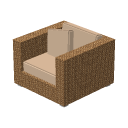
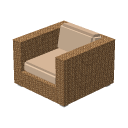
Remove the sofa single throw cushion and soften its seat and back cushions

diff --git a/tests/tools/sofa.test.ts b/tests/tools/sofa.test.ts
@@ -37,7 +37,8 @@ for build in (m.build_frame, m.build_cushions, m.build_feet):
     assert a[0][1:] == b[0][1:] and a[1][1:] == b[1][1:]
 assert len(m.build_feet(1)) == len(m.build_feet(2)) == 4
 assert len(m.build_cushions(2)) == len(m.build_cushions(1))+6
-assert len(m.tilt.compound_cubes(m.cubes())) == m.ASSEMBLIES['throw_cushion']['cubes']
+assert not m.tilt.compound_cubes(m.cubes())
+assert len(m.tilt.compound_cubes(m.cubes(1, 1))) == m.ASSEMBLIES['throw_cushion']['cubes']
 assert m.SEAT_POSITION[1] == m.SEAT_TOP/16-0.24
 `);
   });

diff --git a/tools/gen_sofa.py b/tools/gen_sofa.py
@@ -63,17 +63,16 @@ def build_frame(width_cells):
     ]
 
 
-def pillow(origin, size):
+def pillow(origin, size, edge=0.25):
     """Inset broad faces soften the silhouette and leave a fine sewn edge."""
     x, y, z = origin
     w, h, d = size
-    edge = 0.25
     return [box((x+edge, y, z+edge), (w-2*edge, h, d-2*edge), "piping"),
             box((x, y+edge, z+edge), (w, h-2*edge, d-2*edge), "beige"),
             box((x+edge, y+edge, z), (w-2*edge, h-2*edge, d), "beige")]
 
 
-def build_cushions(width_cells):
+def build_cushions(width_cells, throw_cushions=0):
     h = half_width(width_cells)
     parts = []
     # Separate seat and back pads preserve the reference's proportions at both widths.
@@ -81,19 +80,24 @@ def build_cushions(width_cells):
     for i in range(width_cells):
         x = -h + 2.45 + i * inner / width_cells
         w = inner / width_cells - 0.1
-        parts += pillow((x, 4, -7.2), (w, SEAT_TOP-4, 12.5))
-        back = pillow((x, 6.2, 3.4), (w, 5.8, 2.1))
-        parts += tilt.tilt_assembly(back, (0, 6.2, 3.4), "x", -12)
-    # A square pad rests against the left arm, tilted sideways and back together.
-    throw = pillow((-h+2.55, 5.6, -0.2), (6.5, 6.5, 1.7))
-    pivot = (-h+5.8, 8.85, 0.65)
-    for cube in throw:
-        cube["pivot"] = list(pivot)
-        cube["rotation"] = [0, 0, -13]
-    throw = tilt.tilt_assembly(throw, pivot, "x", -15,
-                               assembly="throw_cushion", assemblies=ASSEMBLIES)
-    parts += throw
-    tilt.assert_axes(parts, {"throw_cushion": throw}, ASSEMBLIES)
+        parts += pillow((x, 4, -7.2), (w, SEAT_TOP-4, 12.5), edge=0.5)
+        back = pillow((x, 6.2, 2.4), (w, 6.0, 3.3), edge=0.6)
+        parts += tilt.tilt_assembly(back, (0, 6.2, 2.4), "x", -12)
+    # The single sofa has no throw cushion; the double sofa keeps its two.
+    throws = []
+    for k in range(throw_cushions):
+        sign = -1 if k == 0 else 1
+        throw = pillow((sign*(h-2.55-6.5) if sign > 0 else -h+2.55, 5.6, -0.2), (6.5, 6.5, 1.7))
+        pivot = (throw[1]["origin"][0] + 3.25, 8.85, 0.65)
+        for cube in throw:
+            cube["pivot"] = list(pivot)
+            cube["rotation"] = [0, 0, 13*sign]
+        throw = tilt.tilt_assembly(throw, pivot, "x", -15,
+                                   assembly="throw_cushion", assemblies=ASSEMBLIES)
+        parts += throw
+        throws.append(throw)
+    if throws:
+        tilt.assert_axes(parts, {"throw_cushion": throws[0]}, ASSEMBLIES)
     return parts
 
 
@@ -103,8 +107,8 @@ def build_feet(width_cells):
             for x in (-h+0.5, h-1.75) for z in (-7.1, 5.85)]
 
 
-def cubes(width_cells=1):
-    return build_frame(width_cells) + build_cushions(width_cells) + build_feet(width_cells)
+def cubes(width_cells=1, throw_cushions=0):
+    return build_frame(width_cells) + build_cushions(width_cells, throw_cushions) + build_feet(width_cells)
 
 
 def validate(parts, width_cells=1):
